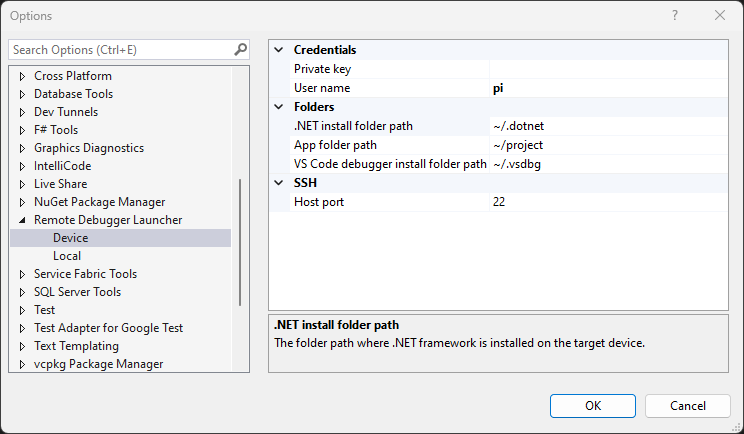
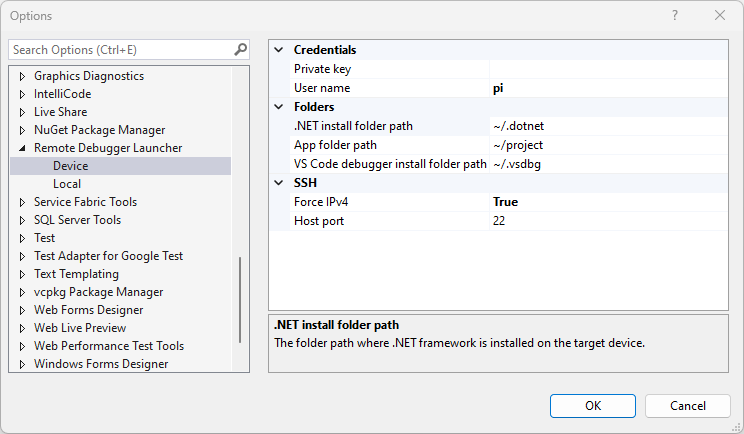
added documentation

diff --git a/docs/Options.md b/docs/Options.md
@@ -1,0 +1,40 @@
+# Options
+The plugin provides a set of global options in the Visual Studio under Tools -> Options -> Remote Debugger Launcher.
+This page describes the details of the options.
+
+## Device options
+![Device Options](ScreenShort-Options.png)
+
+The Device page holds all the configuration options related to device connection settings:
+
+The values configured in this section will only be applied the launch profile has no value (launchprofile.json) does not configure it.
+
+### Credentials
+| Setting | Description |
+|:------- |:-------------------- |
+| Private key | The default private key to use to authenticate a SSH connection. |
+| User name | The default User name. |
+
+### Folders
+| Setting | Description |
+|:------- |:-------------------- |
+| .NET install folder path | The default location where .NET is installed on the device. |
+| App folder path | The path where the application is beeing deployed to. |
+| VS Code debugger install path| The path where vsdbg is installed on the device. |
+
+### SSH
+| Setting | Description |
+|:------- |:-------------------- |
+| Force IPv4 | Forces the plugin to only use IPv4 addresses to communicate with the device. |
+| Host port | The SSH port where the device listens for SSH connections. |
+
+## Local options
+![Local Optioons](ScreenShort-Options2.png)
+
+The values configured in this section will only be applied the launch profile has no value (launchprofile.json) does not configure it.
+
+### Credentials
+| Setting | Description |
+|:------- |:-------------------- |
+| Publish mode | The mode (self contained vs framework dependat) how a .NET app is beeing published |
+| Publish on deploy | The flag wheter dotnet publish should be run on deploy. |

diff --git a/docs/Features.md b/docs/Features.md
@@ -24,7 +24,7 @@ Publishing as self contained application is not yet supported.
 This feature becomes handy for applications types like ASP.NET, ASP.NET SPA, Blazer that need to deploy additional files outside the output folder.
 
 ## Debugging
-The debugger launcher will be launching the app as framework dependant application only. 
+The debugger launcher will be launching the app as framework dependant or self contained, depending on the publish mode. If publish on build is disabled, the app will always debugger as framework dependant.
 The plugin supports the 'Start Debugging (F5)' and 'Start without Debugging (Ctrl+F5)'.
 
 The following properties are passed to the debugger independant of the application type:
@@ -52,7 +52,3 @@ The plugin not yet supports ASP.NET HTTPS developer certificates from the target
 
 ### Install Debugger
 The plugin can be configured to install vsdbg before launching the application. In interest of deployment time, this feature is off by default.
-
-
-
-

diff --git a/docs/readme.md b/docs/readme.md
@@ -8,7 +8,10 @@ Detailed feature descriptions.
 Reference for all LaunchProfile.json settings.
 
 ## [Commands](Commands.md)
-Detailed description of the supporeted commands.
+Detailed description of the supported commands.
+
+## [Options](Options.md)
+Detailed description of the supported options.
 
 ## [SSH Key Pair](SshKeyPair.md)
 Instructions how to create and install SSH keys.

diff --git a/src/ReleaseNotes.md b/src/ReleaseNotes.md
@@ -5,6 +5,8 @@ Bugfix release increasing stability.
 - check if cURL is installed when installing .NET or vsdbg
 - fix analyzer warnings
 - added message how to add .NET to search path
+- added support to publish app as self contained apps
+- added support for debugging self contained apps
 
 ## Bug Fixes
 - fixed caption for error messages
